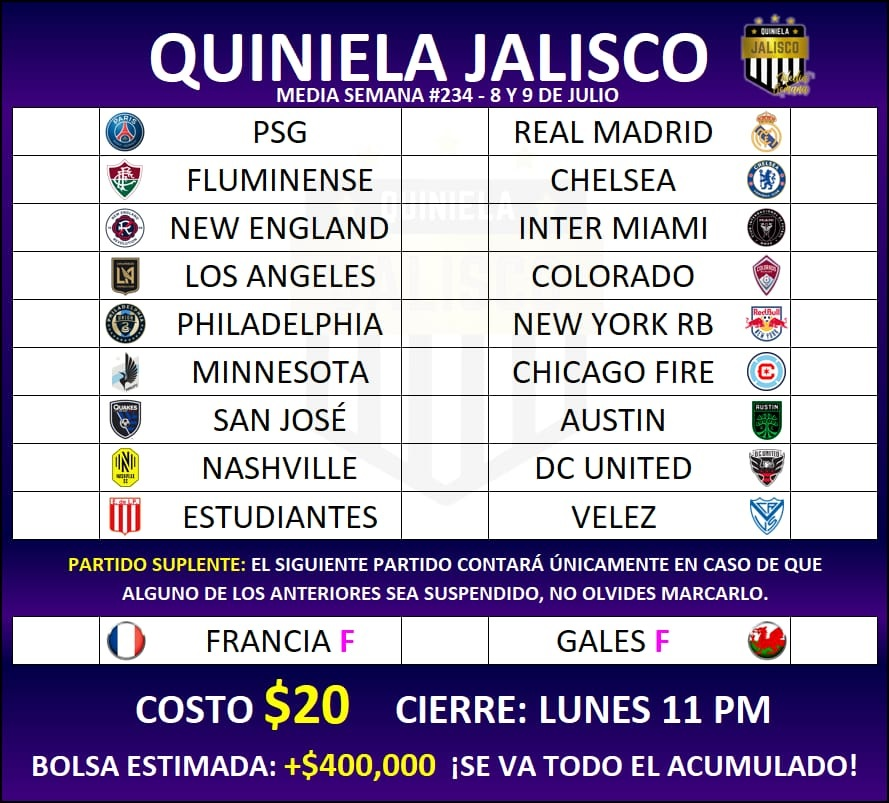
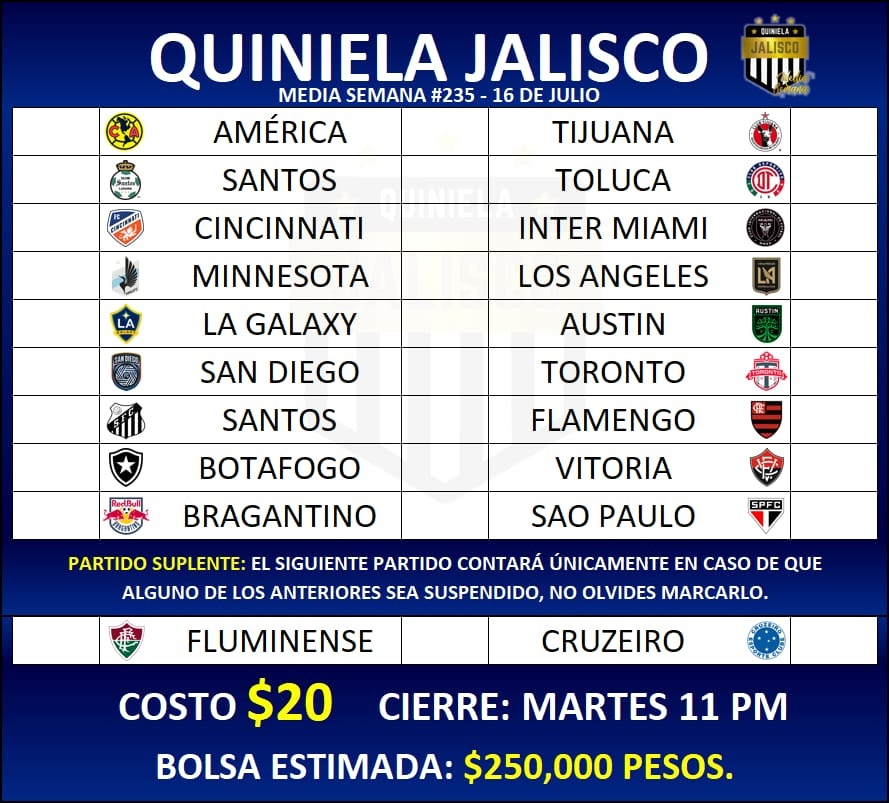
Media Semana #235

diff --git a/MediaSemana/stylesmSusp.css b/MediaSemana/stylesmSusp.css
@@ -94,8 +94,8 @@ body{
     margin-top: 9%;
     border: solid 1px black;
     border-radius: 0 0 14px 14px;
-    background: -webkit-linear-gradient(0.49turn, rgb(30,0,97) -7%, rgb(0 6 82) 80%);
-    background: linear-gradient(0.49turn, rgb(30,0,97) -7%, rgb(0 6 82) 80%);
+    background: -webkit-linear-gradient(0.49turn, rgb(0,20,104) -7%, rgb(0 6 82) 80%);
+    background: linear-gradient(0.49turn, rgb(0,20,104) -7%, rgb(0 6 82) 80%);
 }
 
 .text-lg{
@@ -294,7 +294,7 @@ h6{
 }
 
 #cantidad:before{
-    content:' +$400,000 pesos\A¡Se reparte todo el acumulado!';
+    content:' $250,000 pesos';
     color: yellow;
     white-space:pre;
 }
